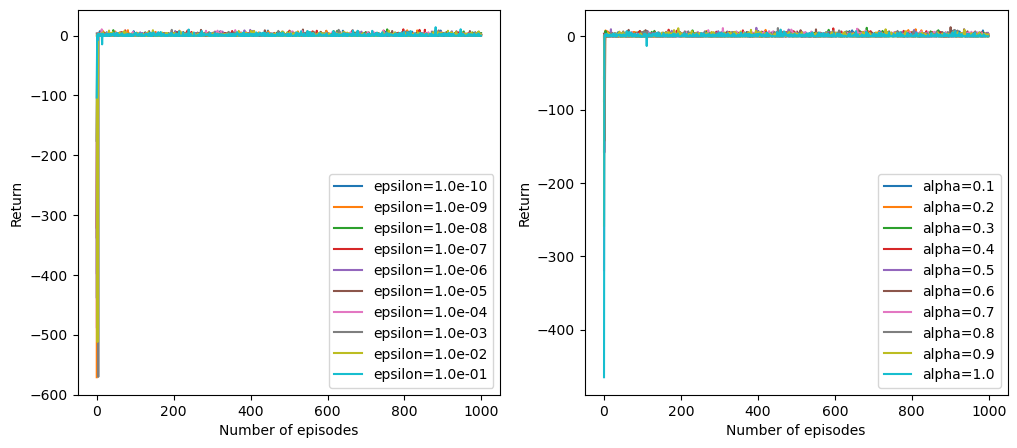
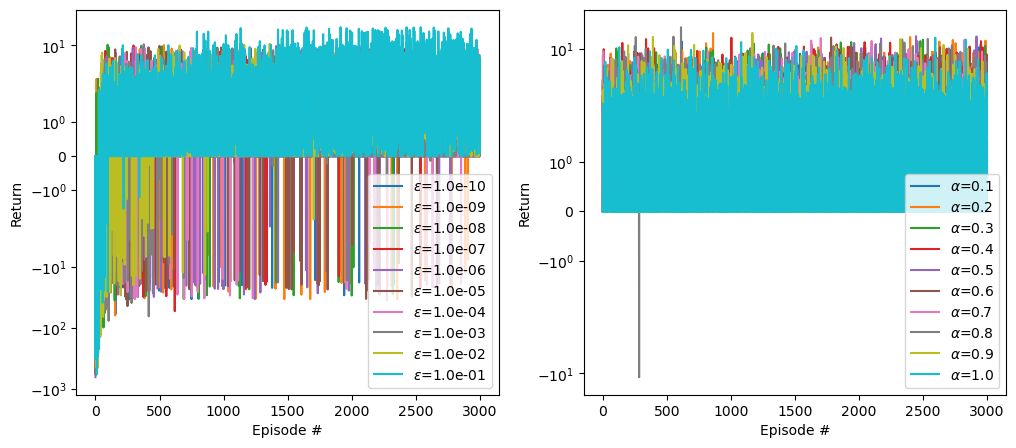
final results?

diff --git a/train_pendulum.py b/train_pendulum.py
@@ -23,15 +23,25 @@ def test_x_to_s(env):
     return None
 
 def epsilon_greedy_action(Q, epsilon, s, return_best_action=False):
+    random_action = np.random.uniform(0,1)
+    return np.argmax(Q[s]) if random_action > epsilon else np.random.randint(0, Q.shape[1])
+
+def get_policy(Q, env):
     # initialize policy
-    pi = np.ones(Q.shape[1]) * epsilon / Q.shape[1]
+    pi = np.zeros(env.num_states)
     # Choose A from S using policy derived from Q (e.g., "-greedy)
-    a_star = np.argmax(Q[s])
-    # add probability of 1-epsilon to greedy action
-    pi[a_star] += 1 - epsilon
-    # choose action according to pi
-    a = np.random.choice(Q.shape[1], p=pi)
-    return a_star if return_best_action else a
+    for s in range(env.num_states):
+        q_max_prev = None
+        action_good = [] # list of actions with same q_max
+        for a in range(env.num_actions):
+            if q_max_prev is None or Q[s, a] > q_max_prev:
+                action_good = [a]
+                q_max_prev = Q[s, a]
+            elif Q[s, a] == q_max_prev:
+                action_good.append(a)
+        good_prob = 1 / len(action_good)
+        pi[s] = np.argmax([good_prob if a in action_good else 0 for a in range(env.num_actions)])
+    return pi
 
 def pendulum_sarsa(n_theta, n_thetadot, n_tau, alpha, epsilon, num_episodes=100, gamma=0.95, verbose=False, plot=False):
     # sourcery skip: extract-duplicate-method
@@ -82,11 +92,7 @@ def pendulum_sarsa(n_theta, n_thetadot, n_tau, alpha, epsilon, num_episodes=100,
             G += r*gamma**n_iter
             n_iter += 1
         log['G'].append(G)
-        for s in range(env.num_states):
-            if np.max(Q[s]) < np.max(Q_old[s]):
-                pi[s] = np.argmax(Q_old[s])
-            else:
-                pi[s] = np.argmax(Q[s])
+    pi = get_policy(Q, env)
     # pi = np.argmax(Q, axis=1)
     if verbose:
         print(f'Q: \n {Q}')
@@ -104,8 +110,10 @@ def pendulum_sarsa(n_theta, n_thetadot, n_tau, alpha, epsilon, num_episodes=100,
 
         plt.subplot(1, 3, 2)
         plt.plot(log['t'], log['theta'], label=r'$\theta$')
-        plt.axhline(-np.pi, color='g', linestyle='--')
-        plt.axhline(np.pi, color='g', linestyle='--', label=r'$\theta=\pm\pi$')
+        plt.axhline(-np.pi, color='r', linestyle='--')
+        plt.axhline(np.pi, color='r', linestyle='--', label=r'$\theta=\pm\pi$')
+        plt.axhline(-0.1*np.pi, color='g', linestyle='--')
+        plt.axhline(0.1*np.pi, color='g', linestyle='--', label=r'$\theta=\pm0.1\pi$')
         plt.plot(log['t'], log['thetadot'], label=r'$\dot{\theta}$')
         plt.xlabel('t')
         plt.ylabel('theta / thetadot')
@@ -113,7 +121,7 @@ def pendulum_sarsa(n_theta, n_thetadot, n_tau, alpha, epsilon, num_episodes=100,
 
         plt.subplot(1, 3, 3)
         plt.plot(np.arange(num_episodes), log['G'], '.', label='G')
-        plt.xlabel('Number of episodes')
+        plt.xlabel('Episode #')
         plt.ylabel('Return')
         plt.yscale('symlog')
         plt.legend()
@@ -166,11 +174,7 @@ def pendulum_q_learning(n_theta, n_thetadot, n_tau, alpha, epsilon, num_episodes
             G += r*gamma**n_iter
             n_iter += 1
         log['G'].append(G)
-        for s in range(env.num_states):
-            if np.max(Q[s]) < np.max(Q_old[s]):
-                pi[s] = np.argmax(Q_old[s])
-            else:
-                pi[s] = np.argmax(Q[s])
+    pi = get_policy(Q, env)
     # pi = np.argmax(Q, axis=1)
     if verbose:
         print(f'Q: \n {Q}')
@@ -188,8 +192,10 @@ def pendulum_q_learning(n_theta, n_thetadot, n_tau, alpha, epsilon, num_episodes
 
         plt.subplot(1, 3, 2)
         plt.plot(log['t'], log['theta'], label=r'$\theta$')
-        plt.axhline(-np.pi, color='g', linestyle='--')
-        plt.axhline(np.pi, color='g', linestyle='--', label=r'$\theta=\pm\pi$')
+        plt.axhline(-np.pi, color='r', linestyle='--')
+        plt.axhline(np.pi, color='r', linestyle='--', label=r'$\theta=\pm\pi$')
+        plt.axhline(-0.1*np.pi, color='g', linestyle='--')
+        plt.axhline(0.1*np.pi, color='g', linestyle='--', label=r'$\theta=\pm0.1\pi$')
         plt.plot(log['t'], log['thetadot'], label=r'$\dot{\theta}$')
         plt.xlabel('t')
         plt.ylabel('theta / thetadot')
@@ -197,14 +203,14 @@ def pendulum_q_learning(n_theta, n_thetadot, n_tau, alpha, epsilon, num_episodes
 
         plt.subplot(1, 3, 3)
         plt.plot(np.arange(num_episodes), log['G'], '.', label='G')
-        plt.xlabel('Number of episodes')
+        plt.xlabel('Episode #')
         plt.ylabel('Return')
         plt.yscale('symlog')
         plt.legend()
         plt.savefig('figures/pendulum/traj_return_q_learning.png', bbox_inches='tight')
     return Q, pi, log
 
-def pendulum_td0(n_theta, n_thetadot, n_tau, pi, alpha, num_episodes=100, gamma=0.95, verbose=False, method=''):
+def pendulum_td0(n_theta, n_thetadot, n_tau, pi, alpha, num_episodes=100, gamma=0.95, verbose=False, method='', plot=False):
     # sourcery skip: extract-duplicate-method
     if verbose:
         print('------------- TD(0) -------------')
@@ -225,6 +231,8 @@ def pendulum_td0(n_theta, n_thetadot, n_tau, pi, alpha, num_episodes=100, gamma=
         log['s'] = [s]
         log['a'] = []
         log['r'] = []
+        log['theta'] = [wrap_func(env.x[0])]
+        log['thetadot'] = [env.x[1]]
         G = 0
         # Simulate until episode is done
         done = False
@@ -238,27 +246,43 @@ def pendulum_td0(n_theta, n_thetadot, n_tau, pi, alpha, num_episodes=100, gamma=
             log['s'].append(s)
             log['a'].append(a)
             log['r'].append(r)
+            log['theta'].append(wrap_func(env.x[0]))
+            log['thetadot'].append(env.x[1])
             G += r*gamma**n_iter
             n_iter += 1
         log['G'].append(G)
     if verbose:
         print(f'V: \n {V.reshape(n_theta, n_thetadot)}')
     # Plot data and save to png file
-    plt.figure(figsize=(10, 5), dpi=100)
-    plt.subplot(1, 2, 1)
-    plt.plot(log['t'], log['s'], label='s')
-    plt.plot(log['t'][:-1], log['a'], label='a')
-    plt.plot(log['t'][:-1], log['r'], label='r')
-    plt.xlabel('t')
-    plt.ylabel('State / Action / Reward')
-    plt.legend()
+    if plot:
+        # Plot data and save to png file
+        plt.figure(figsize=(18, 5), dpi=100)
+        plt.subplot(1, 3, 1)
+        plt.plot(log['t'], log['s'], label='s')
+        plt.plot(log['t'][:-1], log['a'], label='a')
+        plt.plot(log['t'][:-1], log['r'], label='r')
+        plt.xlabel('t')
+        plt.ylabel('State / Action / Reward')
+        plt.legend()
 
-    plt.subplot(1, 2, 2)
-    plt.plot(np.arange(num_episodes), log['G'], '.', label='G')
-    plt.xlabel('Number of episodes')
-    plt.ylabel('Return')
-    plt.legend()
-    plt.savefig(f'figures/pendulum/traj_return_td0_{method}.png', bbox_inches='tight')
+        plt.subplot(1, 3, 2)
+        plt.plot(log['t'], log['theta'], label=r'$\theta$')
+        plt.axhline(-np.pi, color='r', linestyle='--')
+        plt.axhline(np.pi, color='r', linestyle='--', label=r'$\theta=\pm\pi$')
+        plt.axhline(-0.1*np.pi, color='g', linestyle='--')
+        plt.axhline(0.1*np.pi, color='g', linestyle='--', label=r'$\theta=\pm0.1\pi$')
+        plt.plot(log['t'], log['thetadot'], label=r'$\dot{\theta}$')
+        plt.xlabel('t')
+        plt.ylabel('theta / thetadot')
+        plt.legend()
+
+        plt.subplot(1, 3, 3)
+        plt.plot(np.arange(num_episodes), log['G'], '.', label='G')
+        plt.xlabel('Episode #')
+        plt.ylabel('Return')
+        plt.yscale('symlog')
+        plt.legend()
+        plt.savefig(f'figures/pendulum/traj_return_td0_{method}.png', bbox_inches='tight')
     return V, log
 
 def plot_diff_epsilon_alpha(n_theta, n_thetadot, n_tau, method, num_episodes=100, gamma=0.95):
@@ -270,7 +294,7 @@ def plot_diff_epsilon_alpha(n_theta, n_thetadot, n_tau, method, num_episodes=100
     alpha_num_steps = int((alpha_max-alpha_min)/alpha_step)+1
     alpha_arr = np.linspace(alpha_min, alpha_max, alpha_num_steps)
 
-    epsilon_nom = 0.3
+    epsilon_nom = 0.8
     epsilon_min_power = -10
     epsilon_max_power = -1
     epsilon_num_steps = int(epsilon_max_power - epsilon_min_power) + 1
@@ -286,8 +310,9 @@ def plot_diff_epsilon_alpha(n_theta, n_thetadot, n_tau, method, num_episodes=100
         else:
             raise ValueError(f'Unknown method: {method}')
         plt.plot(np.arange(num_episodes), log['G'], label=fr'$\epsilon$={epsilon:0.1e}')
-    plt.xlabel('Number of episodes')
+    plt.xlabel('Episode #')
     plt.ylabel('Return')
+    plt.yscale('symlog')
     plt.legend()
 
     plt.subplot(1, 2, 2)
@@ -299,8 +324,9 @@ def plot_diff_epsilon_alpha(n_theta, n_thetadot, n_tau, method, num_episodes=100
         else:
             raise ValueError(f'Unknown method: {method}')
         plt.plot(np.arange(num_episodes), log['G'], label=fr'$\alpha$={alpha:0.1f}')
-    plt.xlabel('Number of episodes')
+    plt.xlabel('Episode #')
     plt.ylabel('Return')
+    plt.yscale('symlog')
     plt.legend()
     plt.savefig(f'figures/pendulum/diff_epsilon_alpha_{method}.png', bbox_inches='tight')
 
@@ -308,22 +334,24 @@ def plot_diff_epsilon_alpha(n_theta, n_thetadot, n_tau, method, num_episodes=100
 
 def main():
     verbose = True
-    size = 31
+    if verbose:
+        print('-------------------------- Pendulum --------------------------')
+    size = 41
     n_theta = size
     n_thetadot = size
     n_tau = size
 
     gamma = 0.95
-    alpha = 0.1
+    alpha = 0.3
     epsilon = 0.8
-    num_episodes = 1000
+    num_episodes = 3000
     Q, pi, log = pendulum_sarsa(n_theta, n_thetadot, n_tau, alpha, epsilon, num_episodes=num_episodes, gamma=gamma, verbose=verbose, plot=True)
-    # V, log = pendulum_td0(n_theta, n_thetadot, n_tau, pi, alpha, num_episodes=num_episodes, gamma=gamma, verbose=verbose, method='sarsa')
-    # plot_diff_epsilon_alpha(n_theta, n_thetadot, n_tau, method='sarsa', num_episodes=num_episodes, gamma=gamma)
+    V, log = pendulum_td0(n_theta, n_thetadot, n_tau, pi, alpha, num_episodes=num_episodes, gamma=gamma, verbose=verbose, method='sarsa', plot=True)
+    plot_diff_epsilon_alpha(n_theta, n_thetadot, n_tau, method='sarsa', num_episodes=num_episodes, gamma=gamma)
     
     Q, pi, log = pendulum_q_learning(n_theta, n_thetadot, n_tau, alpha, epsilon, num_episodes=num_episodes, gamma=gamma, verbose=verbose, plot=True)
-    # V, log = pendulum_td0(n_theta, n_thetadot, n_tau, pi, alpha, num_episodes=num_episodes, gamma=gamma, verbose=verbose, method='q_learning')
-    # plot_diff_epsilon_alpha(n_theta, n_thetadot, n_tau, method='q_learning', num_episodes=num_episodes, gamma=gamma)
+    V, log = pendulum_td0(n_theta, n_thetadot, n_tau, pi, alpha, num_episodes=num_episodes, gamma=gamma, verbose=verbose, method='q_learning', plot=True)
+    plot_diff_epsilon_alpha(n_theta, n_thetadot, n_tau, method='q_learning', num_episodes=num_episodes, gamma=gamma)
 
 if __name__ == '__main__':
     main()

diff --git a/train_gridworld.py b/train_gridworld.py
@@ -182,15 +182,8 @@ def gridworld_value_iteration(hard_version, theta=1e-16, gamma=0.95, verbose=Fal
     return V, pi, log
 
 def epsilon_greedy_action(Q, epsilon, s, return_best_action=False):
-    # initialize policy
-    pi = np.ones(Q.shape[1]) * epsilon / Q.shape[1]
-    # Choose A from S using policy derived from Q (e.g., "-greedy)
-    a_star = np.argmax(Q[s])
-    # add probability of 1-epsilon to greedy action
-    pi[a_star] += 1 - epsilon
-    # choose action according to pi
-    a = np.random.choice(Q.shape[1], p=pi)
-    return a_star if return_best_action else a
+    random_action = np.random.uniform(0,1)
+    return np.argmax(Q[s]) if random_action > epsilon else np.random.randint(0, Q.shape[1])
 
 def gridworld_sarsa(hard_version, alpha, epsilon, num_episodes=100, gamma=0.95, verbose=False, plot=False):
     # sourcery skip: extract-duplicate-method
@@ -246,7 +239,7 @@ def gridworld_sarsa(hard_version, alpha, epsilon, num_episodes=100, gamma=0.95, 
 
         plt.subplot(1, 2, 2)
         plt.plot(np.arange(num_episodes), log['G'], '-', label='G')
-        plt.xlabel('Number of episodes')
+        plt.xlabel('Episode #')
         plt.ylabel('Return')
         plt.legend()
         plt.savefig('figures/gridworld/traj_return_sarsa.png', bbox_inches='tight')
@@ -304,7 +297,7 @@ def gridworld_q_learning(hard_version, alpha, epsilon, num_episodes=100, gamma=0
 
         plt.subplot(1, 2, 2)
         plt.plot(np.arange(num_episodes), log['G'], '-', label='G')
-        plt.xlabel('Number of episodes')
+        plt.xlabel('Episode #')
         plt.ylabel('Return')
         plt.legend()
         plt.savefig('figures/gridworld/traj_return_q_learning.png', bbox_inches='tight')
@@ -359,7 +352,7 @@ def gridworld_td0(hard_version, pi, alpha, num_episodes=100, gamma=0.95, verbose
 
     plt.subplot(1, 2, 2)
     plt.plot(np.arange(num_episodes), log['G'], '-', label='G')
-    plt.xlabel('Number of episodes')
+    plt.xlabel('Episode #')
     plt.ylabel('Return')
     plt.legend()
     plt.savefig(f'figures/gridworld/traj_return_td0_{method}.png', bbox_inches='tight')
@@ -426,7 +419,7 @@ def plot_diff_epsilon_alpha(hard_version, method, num_episodes=100, gamma=0.95):
         else:
             raise ValueError(f'Unknown method: {method}')
         plt.plot(np.arange(num_episodes), log['G'], label=fr'$\epsilon$={epsilon:0.1e}')
-    plt.xlabel('Number of episodes')
+    plt.xlabel('Episode #')
     plt.ylabel('Return')
     plt.legend()
 
@@ -439,7 +432,7 @@ def plot_diff_epsilon_alpha(hard_version, method, num_episodes=100, gamma=0.95):
         else:
             raise ValueError(f'Unknown method: {method}')
         plt.plot(np.arange(num_episodes), log['G'], label=fr'$\alpha$={alpha:0.1f}')
-    plt.xlabel('Number of episodes')
+    plt.xlabel('Episode #')
     plt.ylabel('Return')
     plt.legend()
     plt.savefig(f'figures/gridworld/diff_epsilon_alpha_{method}.png', bbox_inches='tight')
@@ -448,6 +441,8 @@ def plot_diff_epsilon_alpha(hard_version, method, num_episodes=100, gamma=0.95):
 
 def main():
     verbose = True
+    if verbose:
+        print('-------------------------- Gridworld --------------------------')
     hard_version = False
 
     theta = 1e-16
@@ -461,7 +456,7 @@ def main():
 
     alpha = 0.5
     epsilon = 0.1
-    num_episodes = 100
+    num_episodes = 5000
     Q, pi, log = gridworld_sarsa(hard_version, alpha, epsilon, num_episodes, gamma, verbose, plot=True)
     V, log = gridworld_td0(hard_version, pi, alpha, num_episodes, gamma, verbose, method='sarsa')
     plot_policy_value_function(V, pi, method='sarsa')
